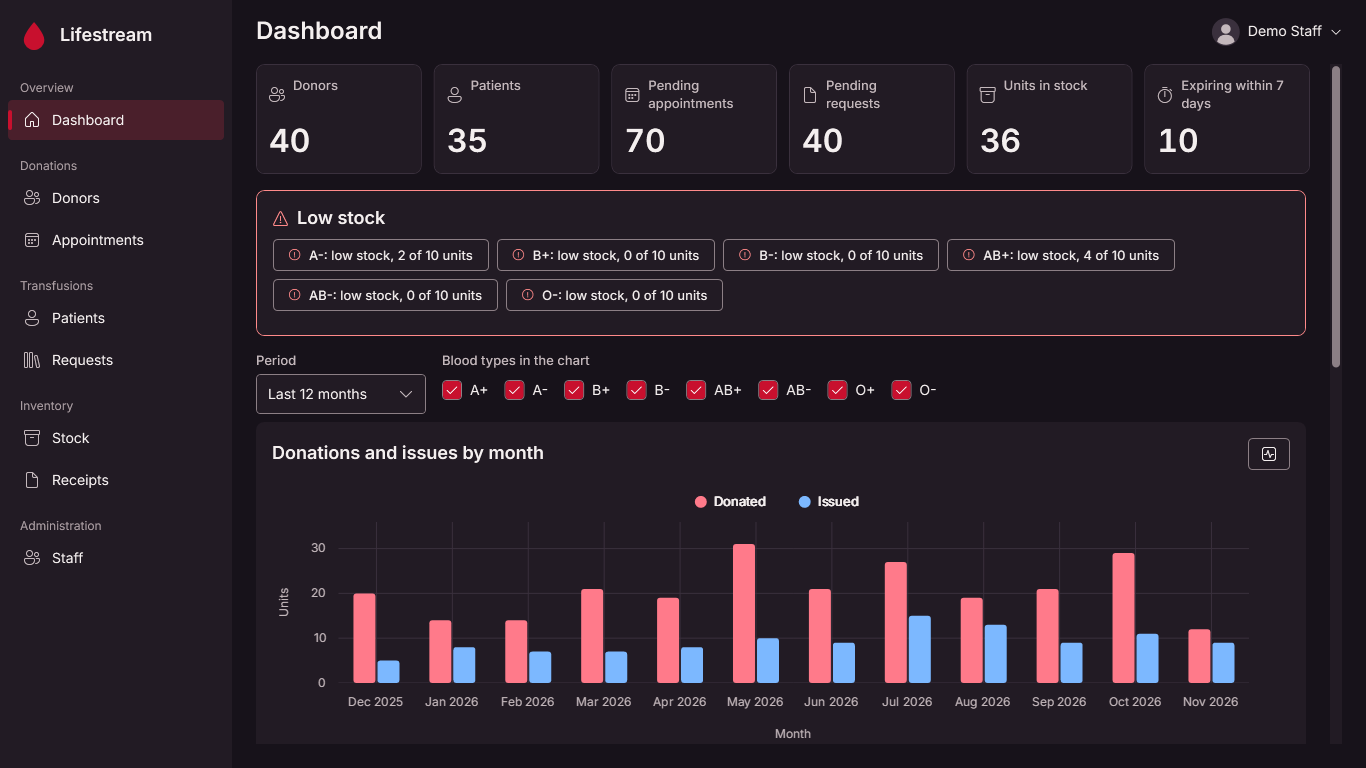
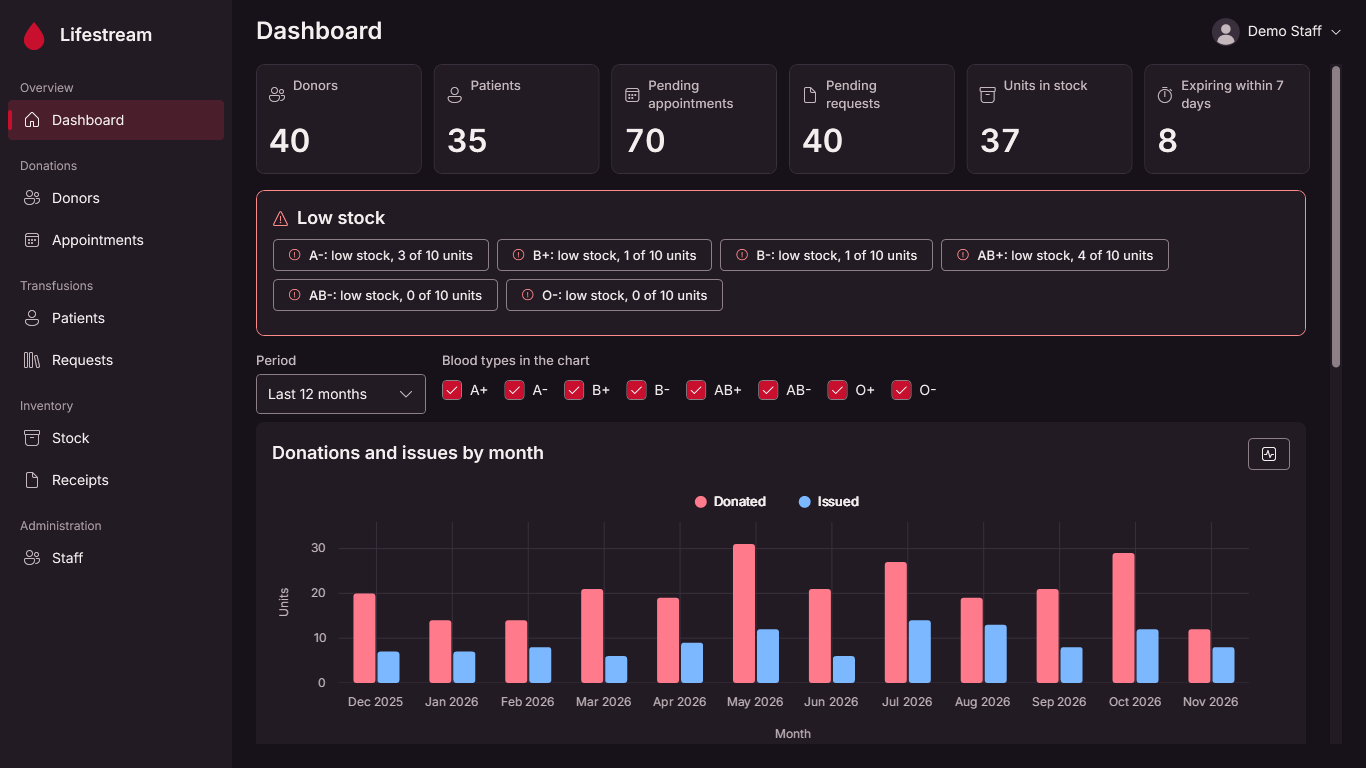
Release fixes: tooltip for every trimmed list text, demo issues in every dashboard month, CHANGELOG list claim, README checksum step

diff --git a/src/Lifestream.Desktop/Controls/DataGridStyles.xaml b/src/Lifestream.Desktop/Controls/DataGridStyles.xaml
@@ -79,6 +79,8 @@
     <Setter Property="BorderThickness" Value="0" />
     <Setter Property="Padding" Value="0" />
     <Setter Property="FocusVisualStyle" Value="{x:Null}" />
+    <!-- Inherited: every text block in a cell (a name link, a two-part caption, any future cell) shows its whole text in a tooltip when it is cut off, so no view can miss it (FEAT-14). -->
+    <Setter Property="local:TruncationTooltip.IsEnabled" Value="True" />
     <Setter Property="Template">
       <Setter.Value>
         <ControlTemplate TargetType="DataGridCell">

diff --git a/tests/Lifestream.Desktop.Tests/Features/ListCellFitRenderTests.cs b/tests/Lifestream.Desktop.Tests/Features/ListCellFitRenderTests.cs
@@ -14,7 +14,9 @@ using Lifestream.Contracts.Patients;
 using Lifestream.Contracts.Receipts;
 using Lifestream.Contracts.Requests;
 using Lifestream.Contracts.Staff;
+using Lifestream.Desktop.Controls;
 using Lifestream.Desktop.Features.Appointments;
+using Lifestream.Desktop.Shell;
 using Lifestream.Desktop.Features.Donors;
 using Lifestream.Desktop.Features.Patients;
 using Lifestream.Desktop.Features.Receipts;
@@ -30,8 +32,8 @@ namespace Lifestream.Desktop.Tests.Features;
 [Collection("Wpf")]
 public sealed class ListCellFitRenderTests
 {
-    private const int Width = 1366;
-    private const int Height = 736;
+    private const int WideWidth = 1366;
+    private const int WideHeight = 736;
     private const string LongName = "Maximiliana Konstantinopoulos-Vandenberghe Montgomery-Featherstonehaugh";
 
     private static void UseLongNames(Lifestream.Client.Tests.Fakes.FakeApiClient api)
@@ -73,25 +75,68 @@ public sealed class ListCellFitRenderTests
         return problems;
     }
 
-    [Fact]
-    public void EveryListScreen_WithLongNames_NoCellTextExtendsBeyondItsRow_FakeApi()
+    /// <summary>
+    /// The size a list screen gets at the smallest window the app allows, read from the app: the main window's minimum, less the sidebar and the page margins of the shell
+    /// (the same tokens ShellView uses). The height is the window minimum itself (taller than the page really is, which does not change a cell's width).
+    /// </summary>
+    private static (int Width, int Height) SmallestListArea()
     {
-        var problems = StaHost.Run(() =>
+        var window = new MainWindow();
+        var margin = (Thickness)window.FindResource("Inset.L24R24B24");
+        var sidebar = (double)window.FindResource("Width.Sidebar");
+        return ((int)(window.MinWidth - sidebar - margin.Left - margin.Right), (int)window.MinHeight);
+    }
+
+    /// <summary>The full text of a block, including text inside a Hyperlink.</summary>
+    private static string FullText(TextBlock block) => new System.Windows.Documents.TextRange(block.ContentStart, block.ContentEnd).Text;
+
+    /// <summary>Every truncated text element in a grid cell (a block whose text does not fit) that does not carry its full text as its tooltip, as "screen: 'text' (tooltip ...)".</summary>
+    private static List<string> TrimmedWithoutTooltip(Hosted host, string screen, ref int trimmedSeen, ref int trimmedLinks)
+    {
+        var problems = new List<string>();
+        foreach (var cell in host.All<DataGridCell>().Where(c => c.IsVisible))
+        {
+            foreach (var text in Hosted.Descendants(cell).OfType<TextBlock>().Where(t => t.IsVisible && TruncationTooltip.IsTrimmed(t)))
+            {
+                trimmedSeen++;
+                var full = FullText(text);
+                if (text.Inlines.OfType<System.Windows.Documents.Hyperlink>().Any())
+                {
+                    trimmedLinks++;
+                }
+
+                if (text.ToolTip as string != full)
+                {
+                    problems.Add($"{screen}: '{full}' is cut off and its tooltip is {(text.ToolTip is null ? "missing" : $"'{text.ToolTip}'")}");
+                }
+            }
+        }
+
+        return problems;
+    }
+
+    private static (List<string> Overflow, List<string> Tooltips, int TrimmedSeen, int TrimmedLinks) RenderAllLists(int width, int height, string suffix)
+    {
+        return StaHost.Run(() =>
         {
             using var rig = Part2Harness.NewRig();
             UseLongNames(rig.Api);
-            var found = new List<string>();
+            var overflow = new List<string>();
+            var tooltips = new List<string>();
+            var trimmed = 0;
+            var links = 0;
 
             void Check<TView, TModel>(string screen, Func<TView> view, Func<TModel, Task> load)
                 where TView : UserControl
                 where TModel : Lifestream.Client.Common.ViewModelBase
             {
                 var vm = Part2Harness.Create<TModel>(rig);
-                using var host = Hosted.Create(Part2Harness.OnCanvas(view(), vm), Width, Height);
+                using var host = Hosted.Create(Part2Harness.OnCanvas(view(), vm), width, height);
                 Hosted.Await(() => load(vm));
                 host.Settle(300);
-                Part2Harness.Save(host, $"ListCellFit_{screen}.png");
-                found.AddRange(Overflows(host, screen));
+                Part2Harness.Save(host, $"ListCellFit_{screen}{suffix}.png");
+                overflow.AddRange(Overflows(host, screen));
+                tooltips.AddRange(TrimmedWithoutTooltip(host, screen, ref trimmed, ref links));
             }
 
             Check("Donors", () => new DonorsView(), (DonorsViewModel vm) => vm.LoadAsync());
@@ -100,8 +145,38 @@ public sealed class ListCellFitRenderTests
             Check("Requests", () => new RequestsView(), (RequestsViewModel vm) => vm.LoadAsync());
             Check("Receipts", () => new ReceiptsView(), (ReceiptsViewModel vm) => vm.LoadAsync());
             Check("Staff", () => new StaffView(), (StaffViewModel vm) => vm.LoadAsync());
-            return found;
+            return (overflow, tooltips, trimmed, links);
         });
+    }
+
+    [Fact]
+    public void EveryListScreen_WithLongNames_NoCellTextExtendsBeyondItsRow_FakeApi()
+    {
+        var (problems, _, _, _) = RenderAllLists(WideWidth, WideHeight, "");
+        Assert.True(problems.Count == 0, string.Join(Environment.NewLine, problems.Take(12)));
+    }
+
+    [Fact]
+    public void EveryListScreen_AtTheSmallestWindow_NoCellTextExtendsBeyondItsRow_FakeApi()
+    {
+        var (width, height) = StaHost.Run(SmallestListArea);
+        var (problems, _, _, _) = RenderAllLists(width, height, "_Smallest");
+        Assert.True(problems.Count == 0, string.Join(Environment.NewLine, problems.Take(12)));
+    }
+
+    [Theory]
+    [InlineData(false)]
+    [InlineData(true)]
+    public void EveryTruncatedListText_OnAllSixListScreens_ShowsItsFullTextInATooltip_FakeApi(bool smallestWindow)
+    {
+        var (width, height) = smallestWindow ? StaHost.Run(SmallestListArea) : (WideWidth, WideHeight);
+        var (_, problems, trimmedSeen, trimmedLinks) = RenderAllLists(width, height, smallestWindow ? "_SmallestTips" : "_WideTips");
+
+        Assert.True(trimmedSeen > 0, "the long names were not cut off at all, so there was nothing to check");
+        if (smallestWindow)
+        {
+            Assert.True(trimmedLinks >= 3, $"the person-name links of the appointments, requests and receipts lists should be cut off at the smallest window (saw {trimmedLinks})");
+        }
 
         Assert.True(problems.Count == 0, string.Join(Environment.NewLine, problems.Take(12)));
     }

diff --git a/src/Lifestream.Desktop/Controls/LifestreamDataGrid.cs b/src/Lifestream.Desktop/Controls/LifestreamDataGrid.cs
@@ -194,12 +194,12 @@ public sealed class LifestreamDataGrid : DataGrid
 
 /// <summary>
 /// Shows the full text of a trimmed (truncated) cell as a tooltip and nothing otherwise (SHELL-39). Set
-/// <c>controls:TruncationTooltip.IsEnabled="True"</c> on a TextBlock with <c>TextTrimming</c>.
+/// <c>controls:TruncationTooltip.IsEnabled="True"</c> on a TextBlock with <c>TextTrimming</c>. The property is inherited and set on the data grid cell style, so every text block in a cell has it.
 /// </summary>
 public static class TruncationTooltip
 {
     public static readonly DependencyProperty IsEnabledProperty =
-        DependencyProperty.RegisterAttached("IsEnabled", typeof(bool), typeof(TruncationTooltip), new PropertyMetadata(false, OnChanged));
+        DependencyProperty.RegisterAttached("IsEnabled", typeof(bool), typeof(TruncationTooltip), new FrameworkPropertyMetadata(false, FrameworkPropertyMetadataOptions.Inherits, OnChanged));
 
     public static bool GetIsEnabled(DependencyObject element) => (bool)(element ?? throw new ArgumentNullException(nameof(element))).GetValue(IsEnabledProperty);
 
@@ -225,6 +225,13 @@ public static class TruncationTooltip
         return formatted.WidthIncludingTrailingWhitespace > block.ActualWidth + 0.5;
     }
 
+    /// <summary>The whole text of a block, also when it sits in inlines (a Hyperlink in a name cell), which the Text property does not report to a binding.</summary>
+    public static string FullText(TextBlock block)
+    {
+        ArgumentNullException.ThrowIfNull(block);
+        return new System.Windows.Documents.TextRange(block.ContentStart, block.ContentEnd).Text;
+    }
+
     private static void OnChanged(DependencyObject d, DependencyPropertyChangedEventArgs e)
     {
         if (d is not TextBlock block)
@@ -233,20 +240,43 @@ public static class TruncationTooltip
         }
 
         block.ToolTipOpening -= OnToolTipOpening;
+        block.Loaded -= OnRefresh;
+        block.DataContextChanged -= OnDataContextChanged;
         if ((bool)e.NewValue)
         {
             block.ToolTipOpening += OnToolTipOpening;
-            block.SetBinding(FrameworkElement.ToolTipProperty, new System.Windows.Data.Binding(nameof(TextBlock.Text)) { Source = block });
+            block.Loaded += OnRefresh;
+            block.DataContextChanged += OnDataContextChanged;
+            Refresh(block);
         }
-        else
+        else if (block.ReadLocalValue(FrameworkElement.ToolTipProperty) is string)
         {
             block.ClearValue(FrameworkElement.ToolTipProperty);
         }
     }
 
+    private static void OnRefresh(object sender, RoutedEventArgs e) => Refresh((TextBlock)sender);
+
+    private static void OnDataContextChanged(object sender, DependencyPropertyChangedEventArgs e) => Refresh((TextBlock)sender);
+
+    private static void Refresh(TextBlock block)
+    {
+        var local = block.ReadLocalValue(FrameworkElement.ToolTipProperty);
+        if (local == DependencyProperty.UnsetValue || local is string)
+        {
+            block.ToolTip = FullText(block); // a tooltip someone set on purpose is left alone
+        }
+    }
+
     private static void OnToolTipOpening(object sender, ToolTipEventArgs e)
     {
-        if (sender is TextBlock block && !IsTrimmed(block))
+        if (sender is not TextBlock block)
+        {
+            return;
+        }
+
+        Refresh(block); // the text may have changed since the last refresh (a bound Run does not notify the block)
+        if (!IsTrimmed(block))
         {
             e.Handled = true; // text fits: no tooltip
         }

diff --git a/tests/Lifestream.Api.Tests/Data/SeedTests.cs b/tests/Lifestream.Api.Tests/Data/SeedTests.cs
@@ -154,6 +154,33 @@ public sealed partial class SeedTests
     }
 
     [Fact]
+    public void DemoData_EveryDayOfTwoYears_HasDonationsAndIssuesInEveryMonthOfTheDashboard()
+    {
+        // 730 consecutive dates (2026 and 2027, none of them a leap year): the oldest month used to have no issues on Jan 30 and 31.
+        var problems = new List<string>();
+        for (var today = new DateOnly(2026, 1, 1); today < new DateOnly(2028, 1, 1); today = today.AddDays(1))
+        {
+            var set = new DemoDataGenerator().Generate(today);
+            var donations = PerMonth(set.Receipts.Where(r => r.Kind == ReceiptKind.Donation).Select(r => r.CreatedAtUtc));
+            var issues = PerMonth(set.Receipts.Where(r => r.Kind == ReceiptKind.Issue).Select(r => r.CreatedAtUtc));
+            foreach (var month in DashboardMonths(today).Where(m => m != new DateOnly(today.Year, today.Month, 1)))
+            {
+                if (donations.GetValueOrDefault(month) == 0)
+                {
+                    problems.Add($"{today:yyyy-MM-dd}: no donations in {month:yyyy-MM}");
+                }
+
+                if (issues.GetValueOrDefault(month) == 0)
+                {
+                    problems.Add($"{today:yyyy-MM-dd}: no issues in {month:yyyy-MM}");
+                }
+            }
+        }
+
+        Assert.True(problems.Count == 0, $"{problems.Count} empty months, first: {string.Join("; ", problems.Take(6))}");
+    }
+
+    [Fact]
     public void DemoData_Variation_IsDeterministicPerDate_AndDiffersFromOneDateToTheNext()
     {
         var a = PerMonth(new DemoDataGenerator().Generate(Day).Receipts.Select(r => r.CreatedAtUtc));

diff --git a/src/Lifestream.Data/Seed/SyntheticDataBuilder.cs b/src/Lifestream.Data/Seed/SyntheticDataBuilder.cs
@@ -244,10 +244,12 @@ internal static class SyntheticDataBuilder
         var next = 0;
 
         // Fulfilled requests are issued on days in the last (pastDays - IssueFreeDays) days, oldest first, so early donations build stock.
-        // Their days are spread over the months with the same month-to-month variation as the donations (every month gets some).
+        // The window always reaches back to the first day of the dashboard's oldest month (11 months before this one), which on Jan 30 and 31 is
+        // further back than 335 days, so that month has issues too. Their days are spread over the months with the same month-to-month variation as the donations.
         var fulfilled = SeedSizes.FulfilledRequests * factor;
-        var issueWindowDays = pastDays - IssueFreeDays;
-        var issueWindowStart = todayStart.AddDays(-issueWindowDays);
+        var oldestDashboardMonth = new DateTime(today.Year, today.Month, 1, 0, 0, 0, DateTimeKind.Utc).AddMonths(-11);
+        var issueWindowStart = DateTimeMin(todayStart.AddDays(-(pastDays - IssueFreeDays)), oldestDashboardMonth);
+        var issueWindowDays = (int)(todayStart - issueWindowStart).TotalDays;
         var issueDays = DaysOverMonths(fulfilled, rng, issueWindowStart, issueWindowDays)
             .Select(day => issueWindowStart.AddDays(day).AddHours(9).AddMinutes(rng.Between(0, 479)))
             .Order()
@@ -340,6 +342,8 @@ internal static class SyntheticDataBuilder
             Status = status,
         };
     }
+
+    private static DateTime DateTimeMin(DateTime a, DateTime b) => a <= b ? a : b;
 
     private static void SetDonorHistory(DemoDataSet set)
     {

diff --git a/CHANGELOG.md b/CHANGELOG.md
@@ -23,7 +23,8 @@ Lifestream 2.0 is a ground-up rewrite of the original course project. Everything
 
 - New look: a dark theme with one consistent set of colors, type and spacing, clear focus outlines, and buttons that show when they are idle, hovered, pressed, busy or unavailable.
 - Dashboard: donations and issues by month for the last 12 months (or another period), with a switch for each blood type, a "View as table" alternative, and cards for donors, patients, pending appointments and requests, and stock. Low and expiring stock is called out.
-- Donors, patients, appointments, requests, stock, receipts and staff: searchable, filterable, paged lists with a detail pane, names with the id underneath, status chips, and links that open the person or record a row refers to.
+- Donors, patients, appointments, requests, receipts and staff: searchable, paged lists with a detail pane next to the list. Appointments, requests, receipts and staff show the name with the id (or user name) underneath, appointments and requests show their status as a chip, and the names in appointments, requests and receipts are links that open the donor, patient or record the row refers to. Donors and patients show the name on one line. Text that does not fit a cell is cut off with an ellipsis and its full text appears in a tooltip.
+- Stock: one tile for each blood type with the units available, the units expiring soon and a low-stock flag, and two filters to choose which tiles to show. It is not a list.
 - Choosing a donor or patient uses a search box instead of typing an id. A filter that has nothing chosen shows "Any donor" and a Choose action.
 - Appointments: book from the free half-hour slots of a day, reschedule, cancel, and record the donation when the donor arrives. A donor who gave blood too recently is flagged and needs a reason to override.
 - Requests and stock: fulfil a request from the bags in stock; stock shows what is fresh, expiring or low for each blood type.

diff --git a/README.md b/README.md
@@ -11,11 +11,13 @@ What changed for users is in [CHANGELOG.md](CHANGELOG.md).
 2. Check the download. In PowerShell, in the folder you saved it to:
 
    ```powershell
-   (Get-FileHash .\Lifestream-win-Setup.exe -Algorithm SHA256).Hash.ToLower()
-   Select-String 'Lifestream-win-Setup.exe' .\SHA256SUMS.txt
+   $expected = (Get-Content .\SHA256SUMS.txt | Where-Object { $_ -like '*Lifestream-win-Setup.exe' } | Select-Object -First 1) -split ' ' | Select-Object -First 1
+   $actual = (Get-FileHash .\Lifestream-win-Setup.exe -Algorithm SHA256).Hash
+   if ($actual -eq $expected) { 'MATCH: the download is intact' } else { 'NO MATCH: delete the file and download it again' }
    ```
 
-   The 64 hexadecimal characters of the first line must be the same as the ones at the start of the second line. If they differ, delete the file and download it again.
+   It prints `MATCH` when the SHA-256 of your download is the one listed in `SHA256SUMS.txt`, and `NO MATCH` otherwise. If it does not match, delete the file and download it again.
+
 3. Run the installer. The installer is **not code-signed** (a certificate costs money every year), so Windows SmartScreen may say "Windows protected your PC": choose **More info**, then **Run anyway**. The app installs for your user only, needs no administrator rights, and updates itself when a newer release is published.
 4. Start Lifestream and press **Try the demo** (see below): no account, user name or password is needed.
 
